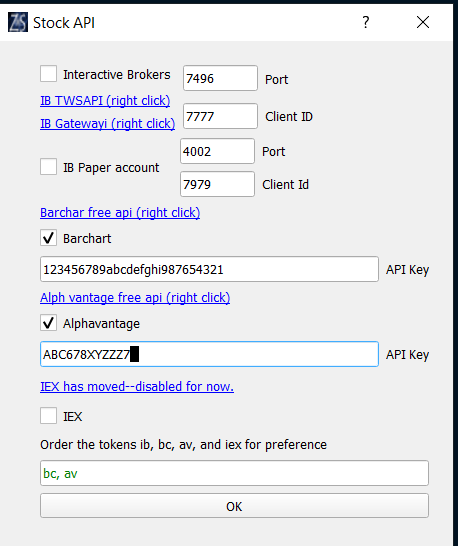
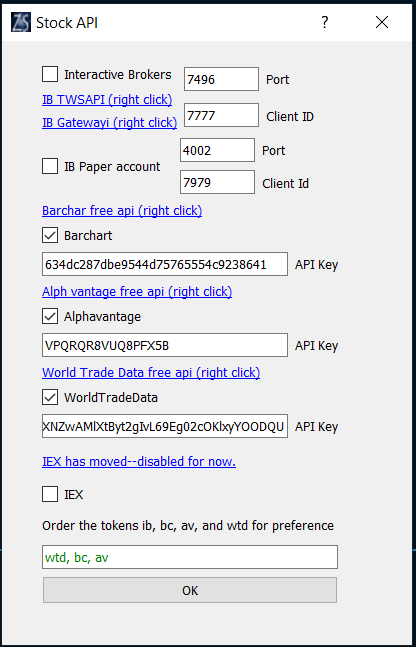
Updated readme to reflect new api

diff --git a/readme.md b/readme.md
@@ -1,4 +1,5 @@
 # Structjour - A Structured Daily Journal for Day Traders of Stock Equities
+https://github.com/MikePia/structjour
 
 Structjour will import statements from DAS Trader Pro trading platform and Interactive Broker Statements. 
 
@@ -39,7 +40,7 @@ Go to file->file settings
        * Make sure you have a setting the the Directory Naming Scheme (press Set Default)
        * Then select the year and month and click 'Create Dirs'
 
-## Optional setup of automatic chart generation using free data from barchart and alphavantage
+## Optional setup of automatic chart generation using free data from WorldTradeData, barchart and alphavantage
    * Go to file->stock api 
 
 ![filesettings.png](images/stockapi.png)
@@ -48,11 +49,13 @@ Go to file->file settings
       * Do the registration and copy the apikey into the box
    * Get the Alphavantage apikey [from alphavantage here.](https://www.alphavantage.co/support/#api-key) 
       * Do the registration and copy the apikey into the box
-   * Select Barchart and Alphavantage boxes and place the tokens 'bc' and 'av' in the box underneath, seperated by a comma
+   * Get the WorldTradeData apikey [from WorldTradeData here.](https://www.worldtradingdata.com/register) 
+      * Do the registration and copy the apikey into the box
+   * Select/deselect Barchart, Alphavantage and WorldTradeData boxes and include/delete tokens 'bc', 'av' and 'wtd in the box underneath, seperated by a comma. 
    * Note that IEX recently outsourced their api and is currently disabled in the dialog
 
 ## Setup for Interactive Brokers TWSAPI (ibapi)
-If you have an Interactive Brokers account and can receive data from them, this is the best data. It includes afterhours data, does not have a practical limit on the dates for which you can receive data, and has no limits to usage. Both Barchart and Alphavantage (free apis) have limits with only market hours, available dates and request limits.
+The free APIs produce excellent charts but are limited to market hours and 7 to 30 days history. If you have an Interactive Brokers account and can receive data from them, this is the best data. It includes afterhours data, does not have a practical limit on the dates for which you can receive data, and has no limits to usage. 
 Briefly, to use ibapi you must:
    * Download and install [TWSAPI](https://interactivebrokers.github.io/) 
       * Additionally, you may have to run 'python setup.py install' in the appropriate directory in order to enable it to run with your preferred python executable.
@@ -62,6 +65,7 @@ Briefly, to use ibapi you must:
       * fill in (or just note the values) for Socket port and client id
       * Place port and Client ID in the Structjour stockapi dialog -- one setting for live, one for paper
       * Click on Interactive Brokers (live) or IBPaper account
+  * Ask ([github issue](https://github.com/MikePia/structjour/issues)) if you have difficulty setting it up.
 
 ## How to open your trades in Structjour from DAS Trader Pro
    * Export your trades window from DAS Trader Pro into the folder for the correct date underneath your Journal Dir. 
@@ -94,7 +98,7 @@ For your trade review, there is a strategey dropdown to choose from, a location 
 The strategy dropdown box on the main page can add new strategies to your list. Strategies are supported by the strategy browser where you can define your strategies and check whether to include them in the dropdown box on the front page. In the Strategy browser, you can define your strategy and provide a couple images. Additionally you can add web pages that describe each strategy
 
 
-Charts can be 1) automatically generated 2) copied from the clipboard or 3) loaded from a file. Data for automatic chart generation has three possible sources. Alphavantage and Barchart (free APIs) and Interactive Brokers python API using IB Gateway or Trader Work Station. If you have all three APIS setup, structjour will choose one based on availability and your set preference. The setup for Alphavantage and Barchart requires you get an API key (very simple and available to everyone). The ibapi data (setup more complicated) has the advantage of providing after hours data and long historical availability. Automatic chart generation can include Moving averages and VWAP. All charts are stored in a directory for that day providing easy access.
+Charts can be 1) automatically generated 2) copied from the clipboard or 3) loaded from a file. Data for automatic chart generation has four possible sources. WorldTradeData, Alphavantage and Barchart (free APIs) and Interactive Brokers python API using IB Gateway or Trader Work Station. If you have all four APIS setup, structjour will choose one based on availability and your set preference. The setup for WorldTradeData Alphavantage and Barchart requires you get an API key (very simple and available to everyone). The ibapi data (setup more complicated) has the advantage of providing after hours data and long historical availability. Automatic chart generation can include Moving averages and VWAP. All charts are stored in a directory for that day providing easy access.
 
 Input files are limited to DAS Trader PRO exports and IB statements (Activity, Trade and Flex statements). At some point in the future, other formats will be added.
 
